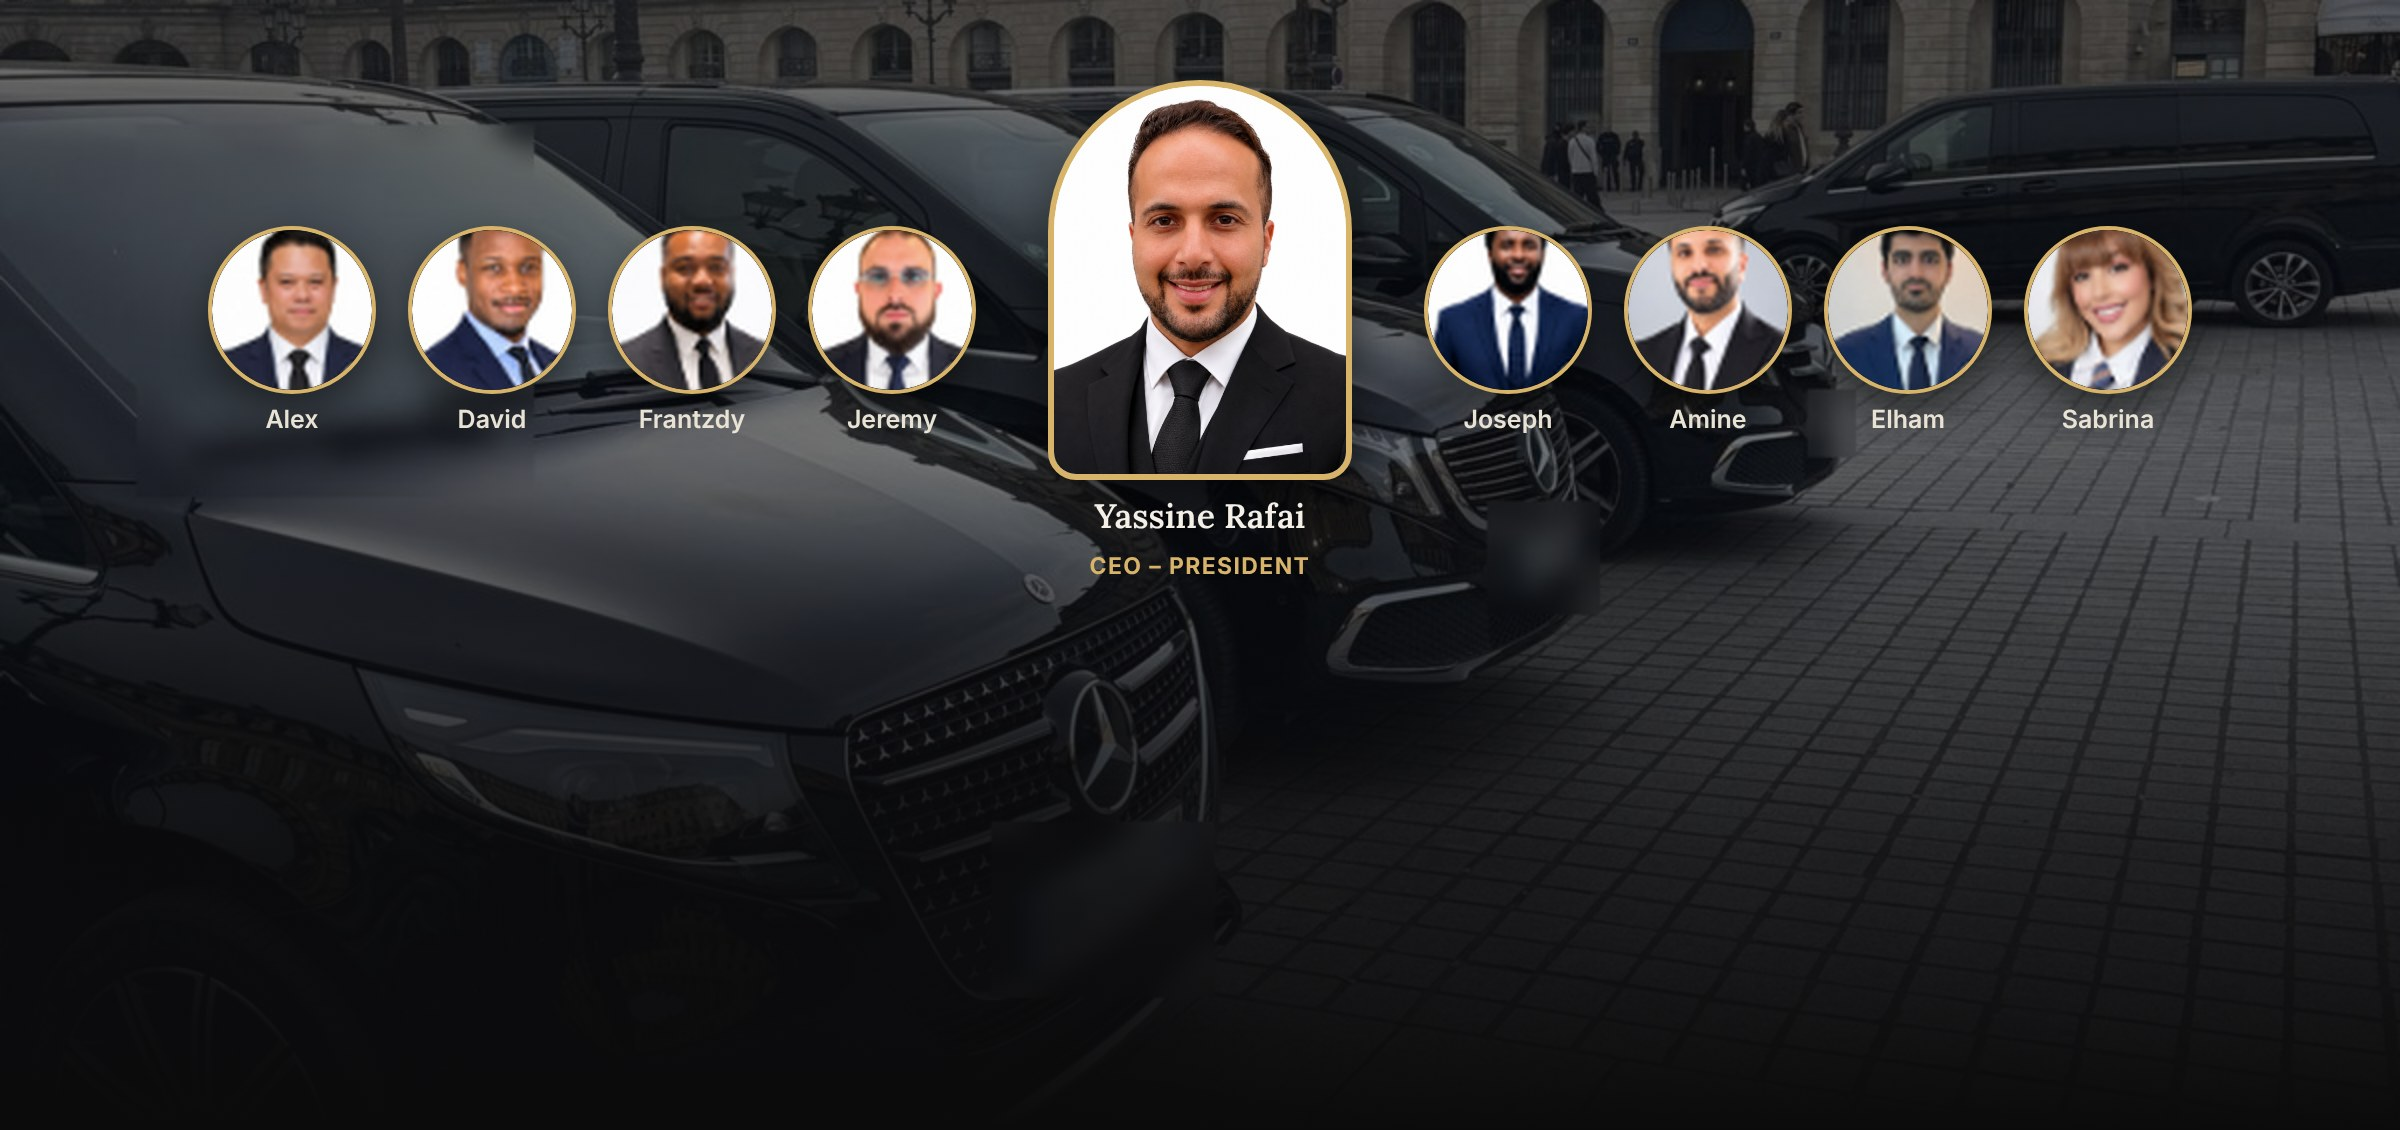
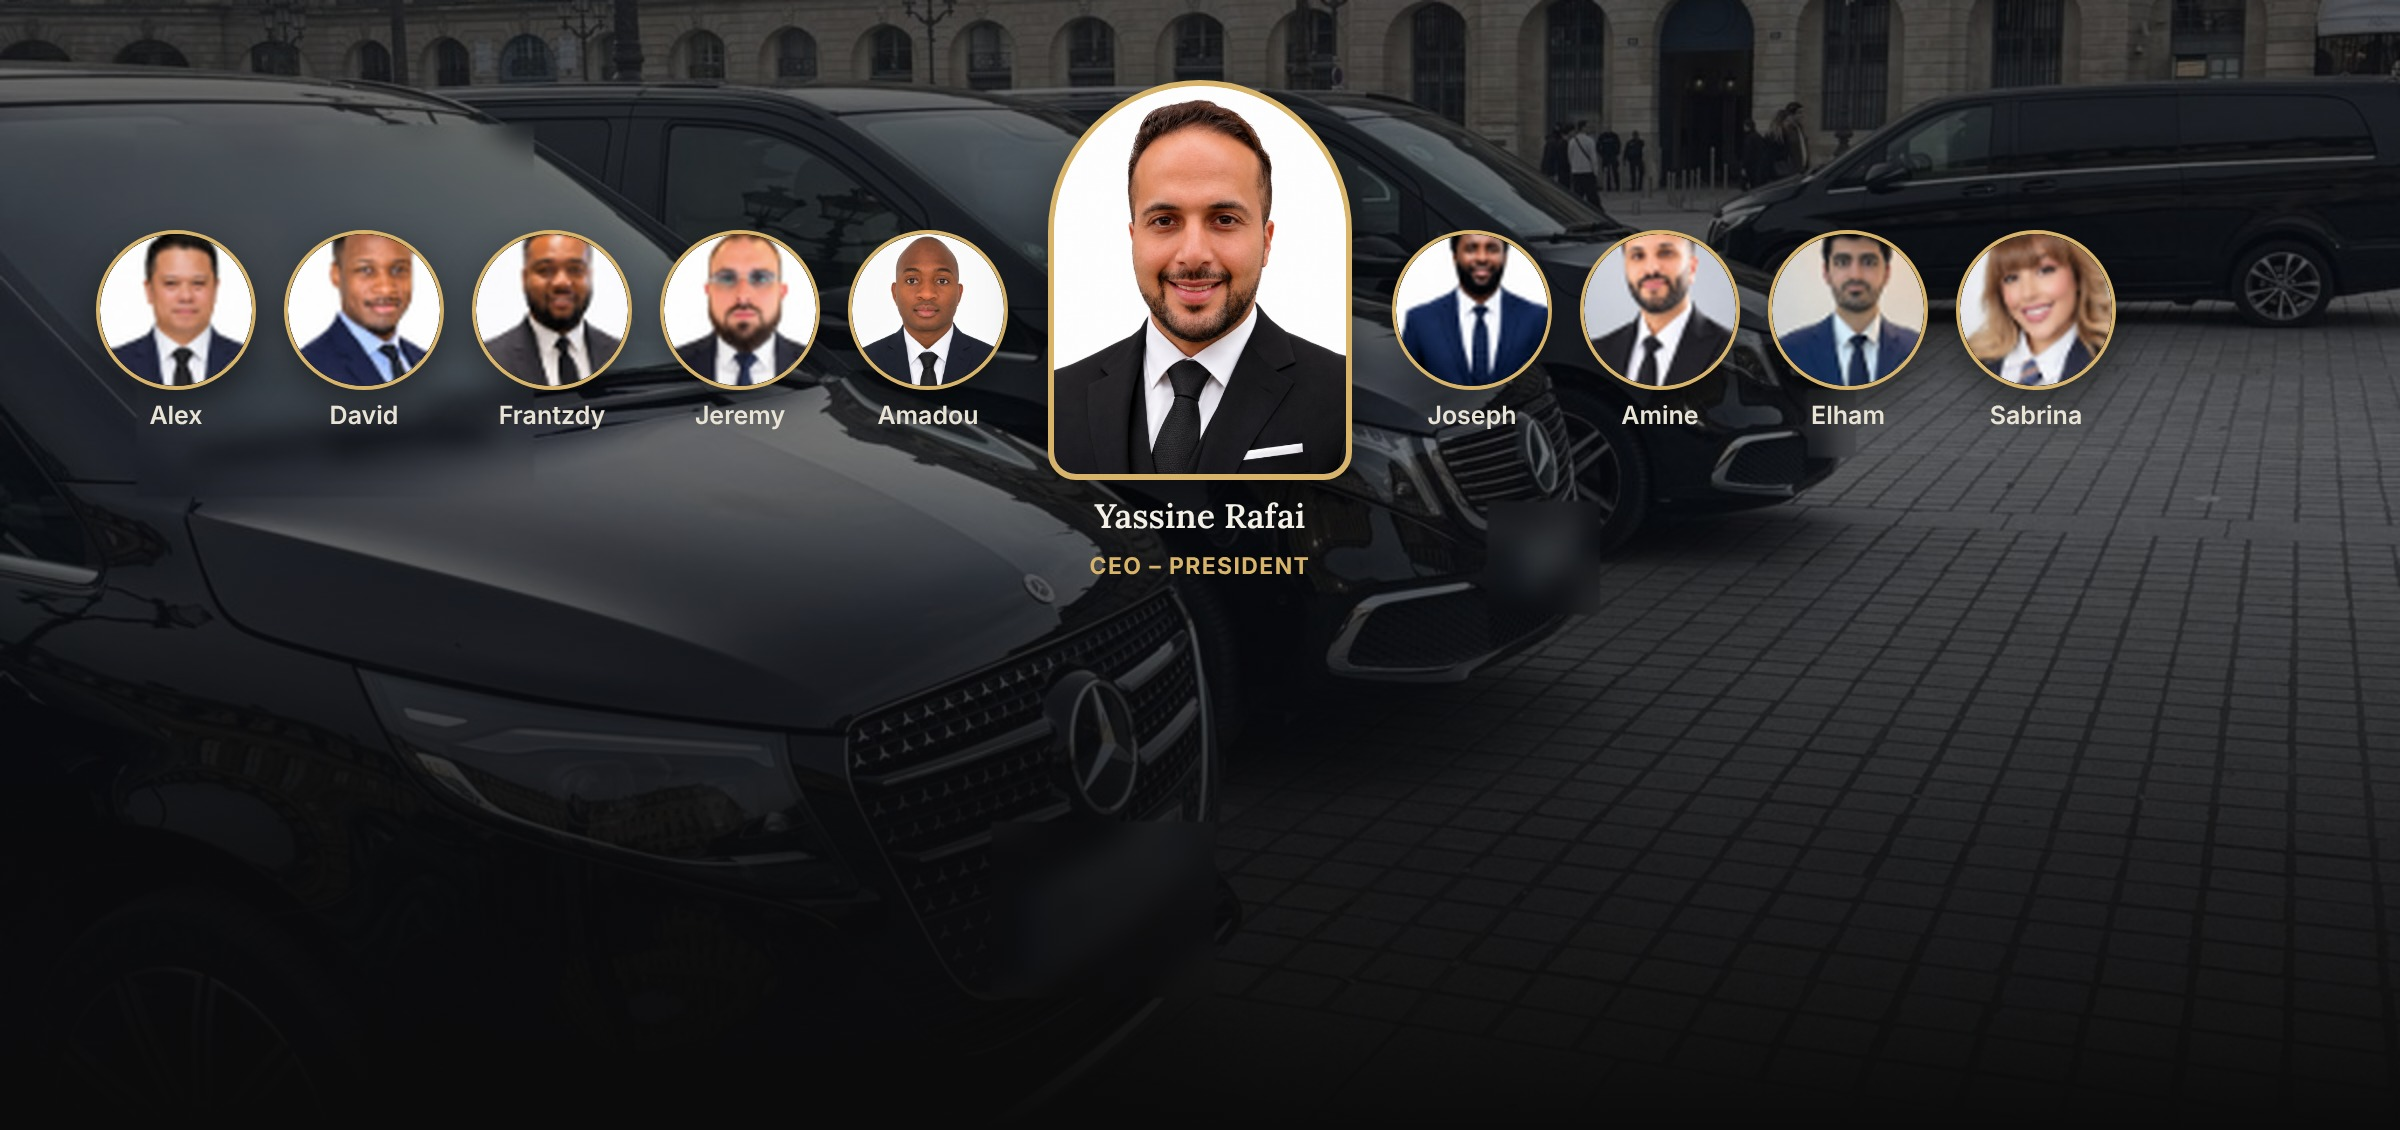
Team : Amadou ajouté (photo de l'équipe et bandeau About) ; image Team nommée d'après son contenu (cache /img immutable)
Claude-Session: https://claude.ai/code/session_01CyJeq5tc67jLzQGf4a8WHh

Changed region(s): [[0.0312, 0.1858, 0.4375, 0.4027], [0.5625, 0.1858, 0.9375, 0.4027]]

diff --git a/web/site2/build.py b/web/site2/build.py
@@ -400,7 +400,9 @@ for p in PAGES:
 TEAM_JPG = os.path.join(os.path.dirname(os.path.abspath(__file__)), 'team-rafai.jpg')
 if not os.path.exists(TEAM_JPG):
     print('ARRET photo equipe absente (team-rafai.jpg)'); sys.exit(1)
-Image.open(TEAM_JPG).convert('RGB').save(OUT + '/img/team-rafai.webp', 'WEBP', quality=84, method=6)
+# Nom tiré du contenu : les images /img/ sont gardées un an par les navigateurs (immutable).
+TEAM_IMG = '/img/team-%s.webp' % sha(open(TEAM_JPG, 'rb').read())[:10]
+Image.open(TEAM_JPG).convert('RGB').save(OUT + TEAM_IMG, 'WEBP', quality=84, method=6)
 TEAM_TX = {
     'en': {'p': '/team', 'k': 'Our team', 'v': ['Punctuality', 'Rigour', 'Professionalism'],
            'd': ['Your flight is tracked in real time, with one hour of waiting time included at the airport.',
@@ -430,11 +432,11 @@ TEAM_CSS = ('<style>.rlteam{max-width:1080px;margin:0 auto;padding:48px 20px 64p
 for lg, x in TEAM_TX.items():
     cards = ''.join('<div><h2>%s</h2><p>%s</p></div>' % (html.escape(v), html.escape(d)) for v, d in zip(x['v'], x['d']))
     inner = (TEAM_CSS + '<main class="rlteam"><p class="k">%s</p><h1>Team Rafai Limousine</h1><p class="v">%s</p>'
-             '<figure><img src="/img/team-rafai.webp" width="1080" height="1350" alt="%s" decoding="async" fetchpriority="high"></figure>'
+             '<figure><img src="%s" width="1080" height="1350" alt="%s" decoding="async" fetchpriority="high"></figure>'
              '<section class="cards">%s</section>'
              '<p class="cta"><a class="w" href="https://wa.me/33667099494" target="_blank" rel="noopener">%s</a><a class="c" href="%s">%s</a></p>'
              '<p class="n">%s</p></main>'
-             % (html.escape(x['k']), ' · '.join(html.escape(v) for v in x['v']), html.escape(x['alt'], quote=True), cards,
+             % (html.escape(x['k']), ' · '.join(html.escape(v) for v in x['v']), TEAM_IMG, html.escape(x['alt'], quote=True), cards,
                 html.escape(x['c1']), x['cu'], html.escape(x['c2']), html.escape(x['n'])))
     docs.append((x['p'], lg, 'Team Rafai Limousine', '', inner))
 print('onglet Team :', ', '.join(x['p'] for x in TEAM_TX.values()))
